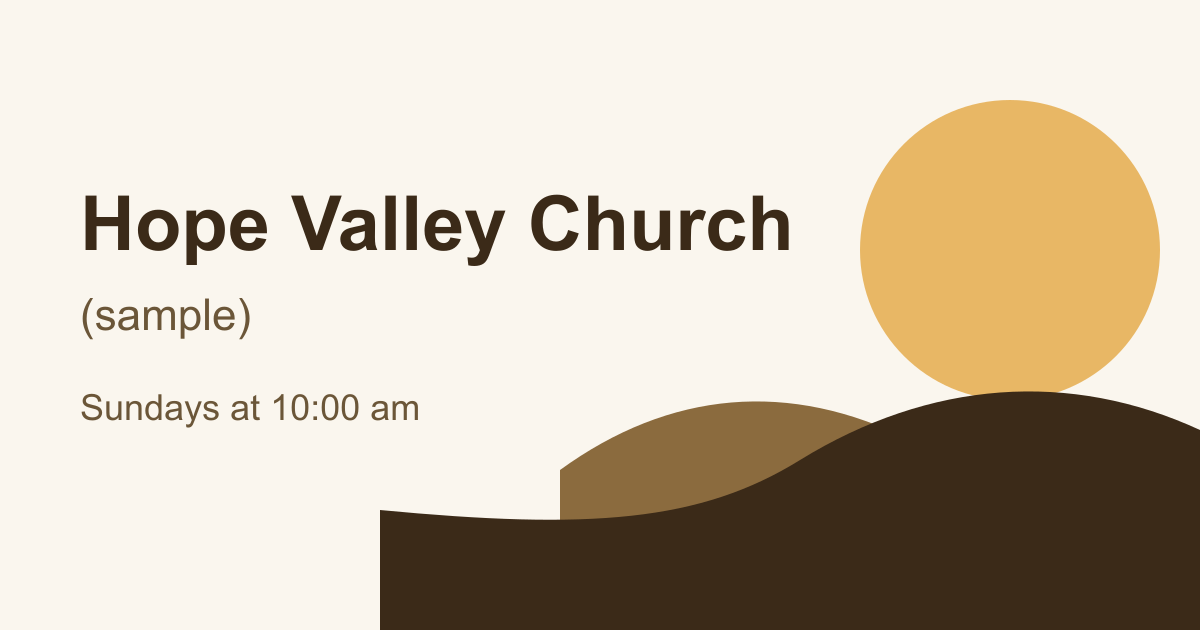
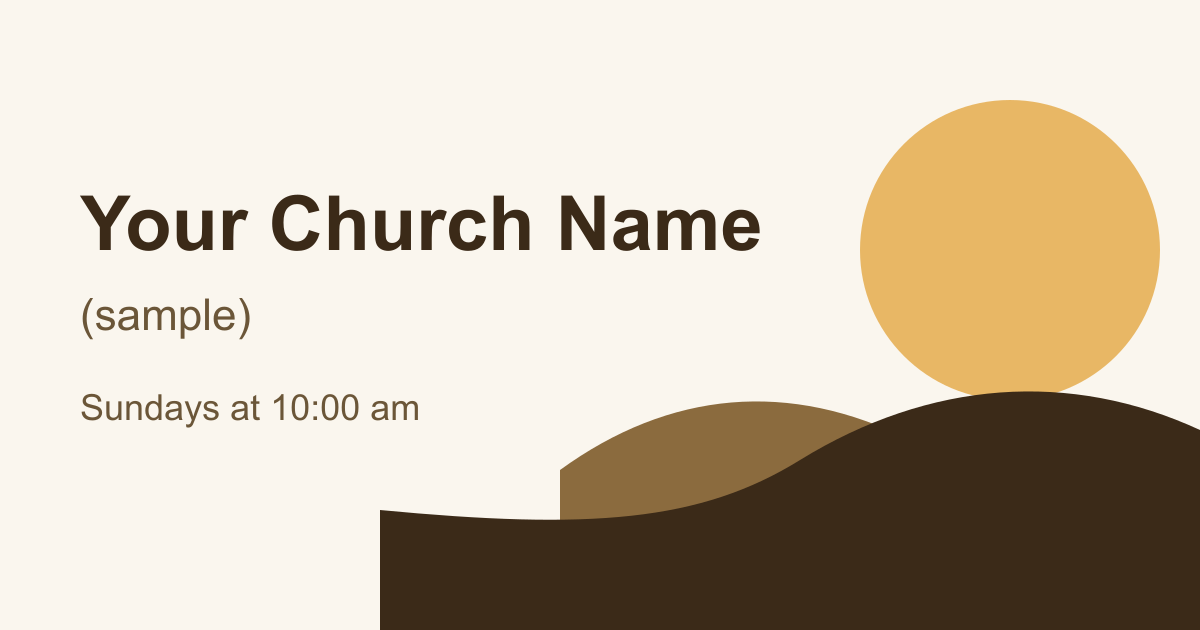
Show the church as 'Your Church Name' (placeholder rule)

Changed region(s): [[0.0617, 0.3016, 0.6783, 0.4222]]

diff --git a/README.md b/README.md
@@ -2,7 +2,7 @@
 
 A simple, good-looking church website that you can copy and make your own.
 
-Everything you see on it is a **sample**: "Hope Valley Church (sample)", "Sample Pastor", "123 Sample Street" and so on. You replace the samples with your own church's details. You do not need to know how to code.
+Everything you see on it is a **sample**: "Your Church Name", "Sample Pastor", "123 Sample Street" and so on. You replace the samples with your own church's details. You do not need to know how to code.
 
 ## What you get
 
